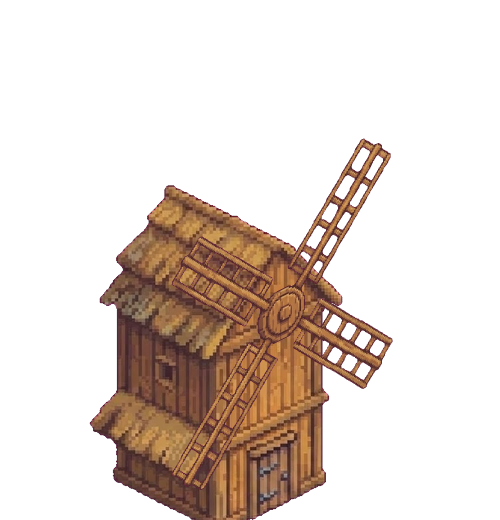
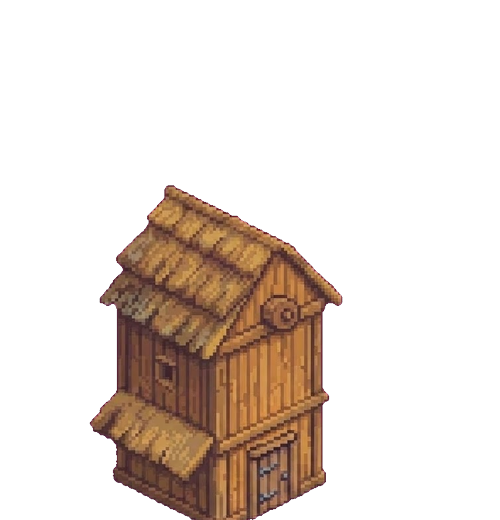
Хутір: лавка на межі клітинок, крила млина окремим шаром поверх будівель
Claude-Session: https://claude.ai/code/session_01QbSGMrSJLDjAsZmBx5QAUW

Changed region(s): [[0.33, 0.2462, 0.78, 0.9538]]

diff --git a/ads/khutir/game.js b/ads/khutir/game.js
@@ -238,7 +238,7 @@
       const r = commit(a);
       if (r && r.ok && a.t === 'demolish') closeSheet();
       if (r && r.ok && a.t === 'chunk') closeSheet();
-      if (r && r.ok && (a.t === 'clear' || a.t === 'undeco' || a.t === 'sow' || a.t === 'fence')) closeSheet();
+      if (r && r.ok && (a.t === 'clear' || a.t === 'undeco' || a.t === 'sow' || a.t === 'fence' || a.t === 'ebench')) closeSheet();
     }));
     $('shB').querySelectorAll('[data-tab]').forEach((el) => el.addEventListener('click', () => { if (fresh()) return; catTab = el.dataset.tab; sfx('pick'); sheetFn(); }));
     $('shB').querySelectorAll('[data-place]').forEach((el) => el.addEventListener('click', () => { if (fresh()) return; au(); startPlace(el.dataset.place); }));
@@ -500,6 +500,7 @@
     if (a.t === 'deco') return { t: 'undeco', x: a.x, y: a.y, full: 1 };
     if (a.t === 'undeco') return { t: 'deco', k: before.d[K.idx(a.x, a.y)], x: a.x, y: a.y };
     if (a.t === 'fence') return a.off ? { t: 'fence', x: a.x, y: a.y, e: a.e } : { t: 'fence', x: a.x, y: a.y, e: a.e, off: 1, full: 1 };
+    if (a.t === 'ebench') { const key = K.fenceKey(a.x, a.y, a.e); if (a.turn) return a; if (a.off) return { t: 'ebench', x: a.x, y: a.y, e: a.e, dr: before.e[key] }; return { t: 'ebench', x: a.x, y: a.y, e: a.e, off: 1, full: 1 }; }
     if (a.t === 'fences') return { t: 'fenceoff', l: a.l.filter(([x, y, e]) => !before.f[K.fenceKey(x, y, e)]) };
     if (a.t === 'fenceoff') return { t: 'fences', l: a.l };
     if (a.t === 'demolish') return { t: 'restore', b: before.b.find((q) => q.id === a.id), pay: S.coins - before.coins };
@@ -530,6 +531,7 @@
   function hammerAt(px, py, dragging) {
     const s = view, hit = fenceAtPoint(px, py), [x, y] = pick(px, py), b = K.at(s, x, y), key = hit ? 'f' + hit.x + ':' + hit.y + ':' + hit.e : x + ':' + y;
     if (gest && gest.tile === key) return; if (gest) gest.tile = key;
+    const bh = benchAtPoint(px, py); if (bh && (!gest || gest.bk !== bh.ex + ':' + bh.ey)) { if (gest) gest.bk = bh.ex + ':' + bh.ey; doAct({ t: 'ebench', x: bh.ex, y: bh.ey, e: bh.e, off: 1, full: 1 }); return; }
     if (hit && (hit.d < 7 * cam.z || !b)) { doAct({ t: 'fence', x: hit.x, y: hit.y, e: hit.e, off: 1, full: 1 }); return; }
     if (s.d[K.idx(x, y)]) { doAct({ t: 'undeco', x, y, full: 1 }); return; }
     if (b && !dragging) { if (b.k === 'home' || b.k === 'barn') toast(B[b.k].n + ': не знести, її можна пересунути', true); else doAct({ t: 'demolish', id: b.id }); }
@@ -567,7 +569,7 @@
     if (x < 0 || y < 0 || x >= N || y >= N) { closeSheet(); return; }
     if (placing) {
       if (placing.startsWith('deco:')) {
-        const k = placing.slice(5); if (k === 'fence') return;
+        const k = placing.slice(5); if (k === 'fence' || k === 'bench') return;
         if (!free(s, x, y)) { if (!painting) toast(K.owned(s, x, y) ? 'Тут зайнято' : 'Це не твоя земля', true); return; }
         const r = doAct({ t: 'deco', k, x, y });
         if (r && r.ok && K.DECOR[k].shop === false && !view.inv[k]) { cancelPlace(); toolUI(); }
@@ -664,6 +666,7 @@
     home: { src: 'img/home.webp', ax: 130, ay: 147, fit: 1.15, ch: [143, 5] },
     coop: { src: 'img/coop.webp', ax: 128, ay: 140, fit: 1.1 },
     mill: { src: 'img/mill.webp', ax: 220, ay: 470, fit: 1.1 },
+    millS: { src: 'img/millS.webp', ax: 220, ay: 470, fit: 1.1 },
     saw: { src: 'img/saw.webp', ax: 128, ay: 151, fit: 1.1 },
     lumber: { src: 'img/lumber.webp', ax: 128, ay: 110, fit: 1.1 },
     bakery: { src: 'img/bakery.webp', ax: 128, ay: 183, fit: 1.1, ch: [142, 43] },
@@ -851,6 +854,19 @@
     const post = (px, py) => { g.fillStyle = '#5E3C1E'; g.fillRect(px - 1.5 * z, py - 16 * z, 3 * z, 17 * z); g.fillStyle = '#8A5A2B'; g.fillRect(px - 0.5 * z, py - 16 * z, 1 * z, 17 * z); };
     post(X0, Y0); post((X0 + X1) / 2, (Y0 + Y1) / 2); post(X1, Y1);
   }
+  function drawBench(q, z) {
+    const X = sx(q.px, q.py), Y = sy(q.px, q.py), key = 'd_bench' + (q.dr >= 2 ? 1 : 0);
+    if (q.dr % 2) { g.save(); g.translate(X, Y); g.scale(-1, 1); sprite(key, 0, 2 * z, z); g.restore(); } else sprite(key, X, Y + 2 * z, z);
+  }
+  function benchAtPoint(px, py) {
+    const s = view; let best = null, bd = 20 * Math.max(0.8, cam.z);
+    for (const k in s.e) { const q = K.benchAt(+k, s.e[k]), d = Math.hypot(px - sx(q.px, q.py), py - (sy(q.px, q.py) - 8 * cam.z)); if (d < bd) { bd = d; best = q; } }
+    return best;
+  }
+  function benchSheet(q) {
+    const c = K.DECOR.bench.c, base = { t: 'ebench', x: q.ex, y: q.ey, e: q.e };
+    openSheet('🪑 Лавка', () => '<div class="btns"><button class="btn sec" data-a="' + A({ ...base, turn: 1 }) + '">🔄 Розвернути</button><button class="btn red" data-a="' + A({ ...base, off: 1 }) + '">🗑 Прибрати<small>повернеться ' + Math.floor(c / 2) + ' 💰</small></button></div>');
+  }
   // кибитка торговця: стоїть біля ринку, поки він приїхав
   function drawWagon(X, Y, z) {
     const R = (col, x, y, w, h) => { g.fillStyle = col; g.fillRect(X + x * z, Y + y * z, w * z, h * z); };
@@ -1010,7 +1026,7 @@
       if (q) {
         const ms = (q.len * 1000) / K.WALK / F, tt = (v.vp + dt) % T, out = tt < ms, ret = tt > T - ms;
         if (out || ret) { const c = alongLeg(out ? q.pts : q.pts.slice().reverse(), out ? tt / ms : (tt - (T - ms)) / ms); return { x: c[0], y: c[1], walk: true, dir: c[2] - c[3] >= 0 ? 1 : -1, basket: false, back: c[2] + c[3] < 0 }; }
-        const dr = (s.dr && s.dr[q.sp.i]) || 0; return { x: q.sp.x, y: q.sp.y, walk: false, sit: true, swing: q.sp.k === 'swing', dir: dr % 2 ? -1 : 1, basket: false, back: q.sp.k === 'bench' && dr >= 2 };
+        const dr = q.sp.dr !== undefined ? q.sp.dr : (s.dr && s.dr[q.sp.i]) || 0; return { x: q.sp.px === undefined ? q.sp.x : q.sp.px, y: q.sp.py === undefined ? q.sp.y : q.sp.py, walk: false, sit: true, swing: q.sp.k === 'swing', dir: dr % 2 ? -1 : 1, basket: false, back: q.sp.k === 'bench' && dr >= 2 };
       }
     }
     const plan = K.walkPlan(s, uid, r), T = plan.ms / F;
@@ -1036,7 +1052,7 @@
     }
     return [pts[0][0], pts[0][1], 1, 0];
   }
-  let vpos = [], lights = [], bubbles = [], marks = [];
+  let vpos = [], lights = [], bubbles = [], marks = [], overTop = [];
   function drawVill(p, s, z, t) {
     const X = sx(p.x, p.y), Y = sy(p.x, p.y), v = s.vl[p.uid];
     drawVillager(g, X, Y - (p.sit ? (p.swing ? 10 : 6) * z : 0), 1.25 * z, v.c, t, p.walk, p.dir, p.basket, p.back, p.sit);
@@ -1066,7 +1082,7 @@
     const s = view, z = cam.z, t = now(), dt = t - viewAt;
     const bmap = new Map(); for (const b of s.b) bmap.set(K.idx(b.x, b.y), b);
     const bon = K.bonuses(s), rts = K.routes(s), vByTile = new Map();
-    lights = []; vpos = []; bubbles = []; marks = [];
+    lights = []; vpos = []; bubbles = []; marks = []; overTop = []; const benches = new Map(); for (const k in s.e) { const q = K.benchAt(+k, s.e[k]), i = K.idx(q.x, q.y); (benches.get(i) || benches.set(i, []).get(i)).push(q); }
     for (const uid of s.vo || []) { const p = villPos(s, uid, rts, t, dt); if (!p) continue; p.uid = uid; const key = Math.floor(p.x + 0.5) + Math.floor(p.y + 0.5); if (!vByTile.has(key)) vByTile.set(key, []); vByTile.get(key).push(p); }
     const ownedSet = new Set(s.ch);
     const buyable = new Set();
@@ -1112,11 +1128,14 @@
       else if (s.ob[i] === 'r') drawRock(X, Y, z);
       else if (s.d[i]) drawDecor(s, x, y, X, Y, z, t);
       else if (!s.ob[i]) { const dk = decor(x, y); if (dk && dk !== 'pebbles') sprite(dk, X + (h01(x, y + 5) - 0.5) * 18 * z, Y + (h01(x + 5, y) - 0.5) * 8 * z, z, wind(x, y, t, 0.05)); }
+      if (benches.has(i)) for (const q of benches.get(i)) drawBench(q, z);
       if (s.f[K.fenceKey(x, y, 0)]) drawFence(x, y, 0, z);
       if (s.f[K.fenceKey(x, y, 1)]) drawFence(x, y, 1, z);
       // селяни, що стоять на цій «діагоналі», — після неї, щоб не ховалися за будинками
       if (x === Math.min(N - 1, d) && vByTile.has(d)) for (const p of vByTile.get(d)) drawVill(p, s, z, t);
     }
+    // крила млина вищі за сусідів, тож малюються поверх усіх будівель
+    for (const [X, Y, zz, busy, id] of overTop) sprite('millS', X, Y, zz, 0, busy, id);
     // ніч
     const nt = darkness(t);
     if (nt.dusk > 0) { g.fillStyle = 'rgba(255,120,40,' + (0.13 * nt.dusk) + ')'; g.fillRect(0, 0, W, H); }
@@ -1157,6 +1176,7 @@
       if (d.wall) lights.push([X + 9 * z, Y - 8 * z, 0.7]);
       if (busy && SPR[b.k].ch) smoke(b.k, X, Y, z, t, b.id);
       if (busy && b.k === 'apiary') bees(X, Y, z, t, b.id);
+      if (b.k === 'mill') overTop.push([X, Y, z, busy, b.id]);
     }
     else if (d.kind === 'barn') sprite(s.sl >= 3 ? 'barn2' : s.sl >= 1 ? 'barn1' : 'barn0', X, Y, z);
     else if (d.kind === 'field') { if (b.p < 0 && !b.buf) sprite('soil', X, Y, z); else drawField(X, Y, z, b.buf ? 1 : prog, b.buf > 0, b.cr); }
@@ -1239,7 +1259,9 @@
     if (!gest.moved && !gest.pinch && ptr.size === 0 && performance.now() - p.t0 < 600) {
       const hit = view ? fenceAtPoint(p.x, p.y) : null;
       if (placing === 'deco:fence') { const [x, y, e] = edgeAt(p.x, p.y); gest = null; draftEdge(x, y, e); return; }
+      if (placing === 'deco:bench') { const [x, y, e] = edgeAt(p.x, p.y), [tx, ty] = pick(p.x, p.y), dr = e ? (ty > y ? 1 : 3) : tx > x ? 0 : 2; gest = null; doAct({ t: 'ebench', x, y, e, dr }); return; }
       if (!placing && view && tapVillager(p.x, p.y)) return; const [x, y] = pick(p.x, p.y);
+      const bh = !placing && view ? benchAtPoint(p.x, p.y) : null; if (bh) { benchSheet(bh); ptr.size || (gest = null); return; }
       if (!placing && hit && (hit.d < 7 * cam.z || !K.at(view, x, y))) { fenceSheet({ x: hit.x, y: hit.y, e: hit.e }); ptr.size || (gest = null); return; }
       tapTile(x, y);
     }

diff --git a/ads/khutir/sim.js b/ads/khutir/sim.js
@@ -67,7 +67,7 @@
     flower: { n: 'Квітник', ic: '🌸', lv: 1, c: 15, b: 3 },
     spruce: { n: 'Ялинка', ic: '🌲', lv: 2, c: 40, b: 4 },
     hay: { n: 'Копиця', ic: '🌾', lv: 2, c: 30, b: 3, turn: 2 },
-    bench: { n: 'Лавка', ic: '🪑', lv: 3, c: 60, b: 5, turn: 4 },
+    bench: { n: 'Лавка', ic: '🪑', lv: 3, c: 60, b: 5, hint: 'Стає на край клітинки' },
     swing: { n: 'Гойдалка', ic: '🛝', lv: 3, c: 80, b: 6, turn: 2 },
     crane: { n: 'Журавель', ic: '🪣', lv: 5, c: 120, b: 8, turn: 2 },
     stork: { n: 'Гніздо лелеки', ic: '🪺', lv: 6, c: 150, b: 10, turn: 2 },
@@ -102,7 +102,17 @@
   // Швидкість стала: час обходу — це довжина справжнього шляху, а не навпаки
   const WALK = 0.6, PAUSE = 1500, SIT = 20000;           // клітинок за секунду, зупинка біля будівлі (мс), відпочинок (мс)
   const speedOf = (v) => (1 + 0.2 * (v.u.sp || 0)) * moodF(v);
-  function restSpots(s) { const o = []; for (const i in s.d || {}) if (REST.indexOf(s.d[i]) >= 0) o.push({ x: i % N, y: Math.floor(i / N), k: s.d[i], i: +i }); return o; }
+  // лавка: dr 0/2 — на межі e=0 сидінням до +x/−x, dr 1/3 — на межі e=1 сидінням до +y/−y
+  function benchAt(k, dr) {
+    const e = k % 2, i = (k - e) / 2, x = i % N, y = Math.floor(i / N), bx = e ? x : dr === 0 ? x + 1 : x, by = e ? (dr === 1 ? y + 1 : y) : y;
+    const mx = e ? x : x + 0.5, my = e ? y + 0.5 : y, d = dr === 0 || dr === 1 ? 0.2 : -0.2;
+    return { x: bx, y: by, ex: x, ey: y, e, dr, px: mx + (e ? 0 : d), py: my + (e ? d : 0), k: 'bench' };
+  }
+  function restSpots(s) {
+    const o = []; for (const i in s.d || {}) if (REST.indexOf(s.d[i]) >= 0) o.push({ x: i % N, y: Math.floor(i / N), k: s.d[i], i: +i });
+    for (const k in s.e || {}) o.push(benchAt(+k, s.e[k]));
+    return o;
+  }
   // найближче до хати місце відпочинку
   function restSpot(s, v) {
     const h = s.b.find((b) => b.id === v.home); let best = null, bd = 1e9;
@@ -167,7 +177,7 @@
     const h = s.b.find((b) => b.id === v.home), sp = restSpot(s, v); if (!h || !sp) return null;
     const bl = blockedSet(s), door = around(h, bl)[0], goals = around(sp, bl); if (!door || !goals.length) return null;
     const tiles = findTiles(s, bl, door, goals); if (!tiles) return null;
-    const pts = [near(door, h)].concat(tiles, [[sp.x, sp.y]]); return { sp, pts, len: lenOf(pts) };
+    const pts = [near(door, h)].concat(tiles, [[sp.px === undefined ? sp.x : sp.px, sp.py === undefined ? sp.y : sp.py]]); return { sp, pts, len: lenOf(pts) };
   }
   const restMs = (s, v) => { const q = restPlan(s, v); return q ? (2 * q.len * 1000) / WALK / speedOf(v) + SIT : SIT; };
   // час обходу за стану зараз
@@ -250,7 +260,7 @@
   }
 
   function create(seed, name) {
-    const s = { v: VER, nm: name || 'Хутір', seed: seed | 0, r: seed | 0, t: 0, coins: 100, xp: 0, lv: 1, sl: 0, st: {}, b: [], nid: 1, ch: [], ob: {}, d: {}, f: {}, inv: {}, o: [], lg: [], pc: {}, made: 0 };
+    const s = { v: VER, nm: name || 'Хутір', seed: seed | 0, r: seed | 0, t: 0, coins: 100, xp: 0, lv: 1, sl: 0, st: {}, b: [], nid: 1, ch: [], ob: {}, d: {}, f: {}, e: {}, inv: {}, o: [], lg: [], pc: {}, made: 0 };
     for (let y = 4; y <= 6; y++) for (let x = 4; x <= 6; x++) { const c = y * NC + x; s.ch.push(c); genChunk(s, c, true); }
     for (let y = MID - 3; y <= MID + 2; y++) for (let x = MID - 3; x <= MID + 2; x++) delete s.ob[idx(x, y)];
     s.b.push({ id: s.nid++, k: 'field', x: MID - 1, y: MID - 1, lv: 1, buf: 0, p: 0, h: 0, cr: 'wheat' });
@@ -319,6 +329,10 @@
   }
   function advance(s, now) {
     if (!s.b.some((b) => b.k === 'barn')) { const t = freeTileNear(s, MID + 1, MID - 2); if (t) s.b.push({ id: s.nid++, k: 'barn', x: t[0], y: t[1], lv: 1, buf: 0, p: -1, h: 0 }); }
+    if (!s.e) {   // лавка тепер стоїть на межі клітинок
+      s.e = {};
+      for (const i in s.d) if (s.d[i] === 'bench') { const x = i % N, y = Math.floor(i / N), dr = (s.dr && s.dr[i]) || 0, e = dr % 2, X = dr === 0 ? x - 1 : x, Y = dr === 1 ? y - 1 : y; if (X >= 0 && Y >= 0) s.e[fenceKey(X, Y, e)] = dr; delete s.d[i]; }
+    }
     if (!s.f) { s.f = {}; for (const i in s.d || {}) if (s.d[i] === 'fence') delete s.d[i]; }   // тин тепер на межах, а не на клітинках
     if (!s.t) { s.t = now; kick(s); return s; }
     if (now <= s.t) return s;
@@ -373,6 +387,7 @@
   // після 12 однакових прикрас кожна наступна важить утричі менше: красиво — це різноманітно
   function beauty(s) {
     const n = {}; let sum = 0, fc = Object.keys(s.f || {}).length;
+    for (const k in s.e || {}) { const c = (n.bench = (n.bench || 0) + 1); sum += DECOR.bench.b * (c > 12 ? 0.33 : 1); }
     sum += Math.min(fc, 40) * DECOR.fence.b + Math.max(0, fc - 40) * DECOR.fence.b * 0.33;
     for (const i in s.d || {}) { const k = s.d[i], c = (n[k] = (n[k] || 0) + 1); sum += DECOR[k].b * (c > 12 ? 0.33 : 1); }
     return Math.round(sum);
@@ -511,6 +526,17 @@
         for (const [r, n] of B[b.k].in || []) s.st[r] = (s.st[r] || 0) + n * ((b.qn || 0) + (b.p >= 0 ? 1 : 0));
         s.b.splice(i, 1); kick(s); return res;
       }
+      case 'ebench': {
+        const key = fenceKey(a.x, a.y, a.e ? 1 : 0), c = DECOR.bench.c;
+        if (a.off) { if (s.e[key] === undefined) return fail('Нема'); delete s.e[key]; s.coins += a.full ? c : Math.floor(c / 2); return res; }
+        if (a.turn) { if (s.e[key] === undefined) return fail('Нема'); s.e[key] = (s.e[key] + 2) % 4; return res; }
+        const q = benchAt(key, a.dr | 0);
+        if (!owned(s, q.x, q.y)) return fail('Це не твоя земля');
+        if (s.e[key] !== undefined) return fail('Тут уже є');
+        if (s.lv < DECOR.bench.lv) return fail('Відкриється на ' + DECOR.bench.lv + ' рівні');
+        if (s.coins < c) return fail('Треба ' + c + ' 💰');
+        s.coins -= c; s.e[key] = a.dr | 0; return res;
+      }
       case 'fences': {
         // весь намальований тин однією дією: гроші списуються разом або ніяк
         const list = (a.l || []).filter(([x, y, e]) => !s.f[fenceKey(x, y, e)] && (owned(s, x, y) || owned(s, x + (e ? 0 : 1), y + (e ? 1 : 0))));
@@ -637,6 +663,6 @@
     return '';
   }
 
-  const api = { mood, moodF, restSpot, restPlan, walkPlan, tripOf, speedOf, WALK, PAUSE, SIT, fenceKey, VER, MID, CROP, DECOR, outOf, qMax, beauty, tier, tierNeed, beautyBonus, market, LOOK, VUP, routes, route, basket, vupCost, addVillager, kick, N, CH, NC, RES, B, ORDER, create, advance, act, why, storeCap, xpNeed, buildCost, upCost, hireCost, storeCost, chunkCost, capOf, durOf, bonuses, slots, owned, chunkOf, idx, at, count, ROCK, fmtCost, canAfford, MAX_AWAY };
+  const api = { benchAt, mood, moodF, restSpot, restPlan, walkPlan, tripOf, speedOf, WALK, PAUSE, SIT, fenceKey, VER, MID, CROP, DECOR, outOf, qMax, beauty, tier, tierNeed, beautyBonus, market, LOOK, VUP, routes, route, basket, vupCost, addVillager, kick, N, CH, NC, RES, B, ORDER, create, advance, act, why, storeCap, xpNeed, buildCost, upCost, hireCost, storeCost, chunkCost, capOf, durOf, bonuses, slots, owned, chunkOf, idx, at, count, ROCK, fmtCost, canAfford, MAX_AWAY };
   if (typeof module !== 'undefined' && module.exports) module.exports = api; else root.KhutirSim = api;
 })(typeof window !== 'undefined' ? window : globalThis);

diff --git a/bots/local-sim/khutir-test.js b/bots/local-sim/khutir-test.js
@@ -45,7 +45,7 @@ const tapTile = async (p, x, y) => { await p.evaluate(([x, y]) => { KHUTIR.focus
   const n1 = await p.evaluate(() => { let n = 0; for (let x = 18; x < 26; x++) if (KHUTIR.commit({ t: "deco", k: "path", x, y: 19 }).ok) n++; return n; });
   check("стежка намальована", n1 >= 6, String(n1));
   const b0 = await p.evaluate(() => KHUTIR.K.beauty(KHUTIR.view));
-  await p.evaluate(() => { for (let x = 17; x < 24; x++) KHUTIR.commit({ t: "fence", x, y: 18, e: 1 }); for (let i = 0; i < 4; i++) KHUTIR.commit({ t: "deco", k: ["flower", "bench", "lantern", "oak"][i], x: 18 + i * 2, y: 20 }); KHUTIR.closeSheet(); });
+  await p.evaluate(() => { for (let x = 17; x < 24; x++) KHUTIR.commit({ t: "fence", x, y: 18, e: 1 }); for (let i = 0; i < 4; i++) KHUTIR.commit({ t: "deco", k: ["flower", "hay", "lantern", "oak"][i], x: 18 + i * 2, y: 20 }); KHUTIR.closeSheet(); });
   const b1 = await p.evaluate(() => [KHUTIR.K.beauty(KHUTIR.view), KHUTIR.K.tier(KHUTIR.view)]);
   check("прикраси дають красу й ступінь", b1[0] > b0 && b1[1] >= 1, JSON.stringify(b1));
   check("на дорозі не можна будувати", await p.evaluate(() => { const d = Object.keys(KHUTIR.view.d)[0], x = d % 48, y = Math.floor(d / 48); return !KHUTIR.commit({ t: "build", k: "well", x, y }).ok; }));
@@ -121,6 +121,9 @@ const tapTile = async (p, x, y) => { await p.evaluate(([x, y]) => { KHUTIR.focus
   // швидкість стала: час обходу пропорційний довжині шляху
   const sp = await p.evaluate(() => { const K = KHUTIR.K, s = KHUTIR.view, u = Object.keys(s.vl)[0], r = K.routes(s)[u], pl = K.walkPlan(s, u, r), len = pl.legs.reduce((a, l) => a + l.len, 0); return [pl.ms, (len / K.WALK) * 1000 + K.PAUSE * pl.legs.length]; });
   check("час обходу = довжина шляху / швидкість", Math.abs(sp[0] - sp[1]) < 1, JSON.stringify(sp));
+  // лавка стоїть на межі й не займає клітинку
+  const be = await p.evaluate(() => { const K = KHUTIR.K, s = KHUTIR.S; s.coins += 100; const r = KHUTIR.commit({ t: "ebench", x: 21, y: 25, e: 0, dr: 0 }), v = KHUTIR.view, q = K.benchAt(K.fenceKey(21, 25, 0), 0); return [r.ok, Object.keys(v.e).length, q.x, q.y, !v.d[K.idx(q.x, q.y)]]; });
+  check("лавка на межі клітинок", be[0] && be[1] === 1 && be[4], JSON.stringify(be));
   // торговець
   await p.evaluate(() => { KHUTIR.commit({ t: "build", k: "market", x: 24, y: 24 }); const t = Date.now() + 0, every = 3 * 3600e3, ph = t % every; if (ph >= 80 * 60e3) KHUTIR.warp(every - ph + 60e3); KHUTIR.S.st.wheat = 60; KHUTIR.refresh(); });
   const m = await p.evaluate(() => KHUTIR.K.market(KHUTIR.view, KHUTIR.view.t));

diff --git a/ads/khutir/anim.js b/ads/khutir/anim.js
@@ -9,5 +9,5 @@
    GIF не підходить: у нього прозорість лише «так/ні» (рвані краї), а canvas не гортає його кадри.
    Приклад:  mill: { n: 6, ms: 140, busy: true },  */
 window.KHUTIR_ANIM = {
-  mill: { n: 4, ms: 150, busy: true },
+  millS: { n: 4, ms: 150, busy: true },   // крила млина: окремий шар поверх сусідніх будівель
 };

diff --git a/upd.md b/upd.md
@@ -24,6 +24,11 @@
 
 ---
 
+## 2026-11-02 (64) — Хутір: лавка на межі клітинок, крила млина поверх
+
+- Лавка, як і тин, стає на край клітинки спинкою до нього (запис `s.e`), земля лишається вільною. Старі лавки перенесено автоматично. Торкання лавки: розвернути або прибрати.
+- Крила млина — окремий шар, що малюється поверх усіх будівель.
+
 ## 2026-11-02 (63) — Хутір: млин крутить крилами
 
 - Новий спрайт млина й 4 кадри: крила окремо повернуті й нахилені в площину стіни (`img/anim/mill/`). Крутяться, лише коли млин працює.
